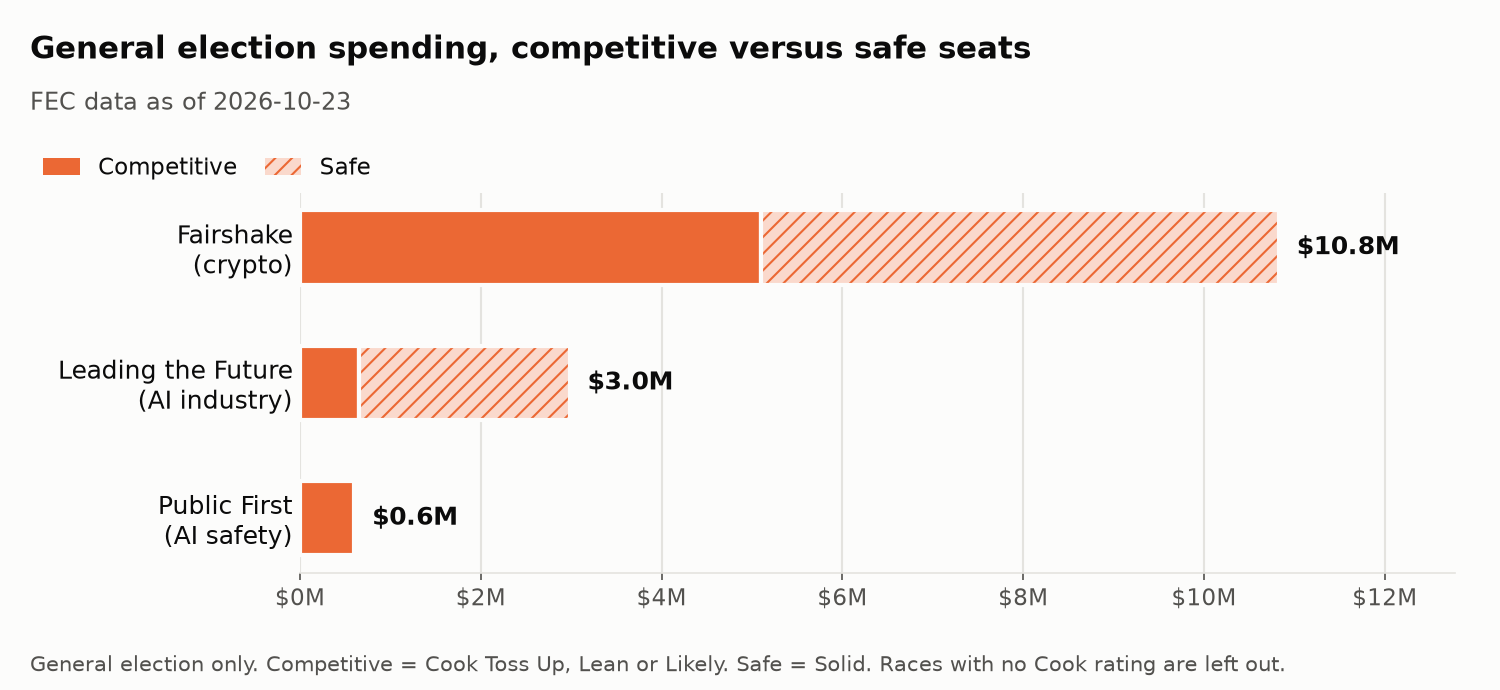
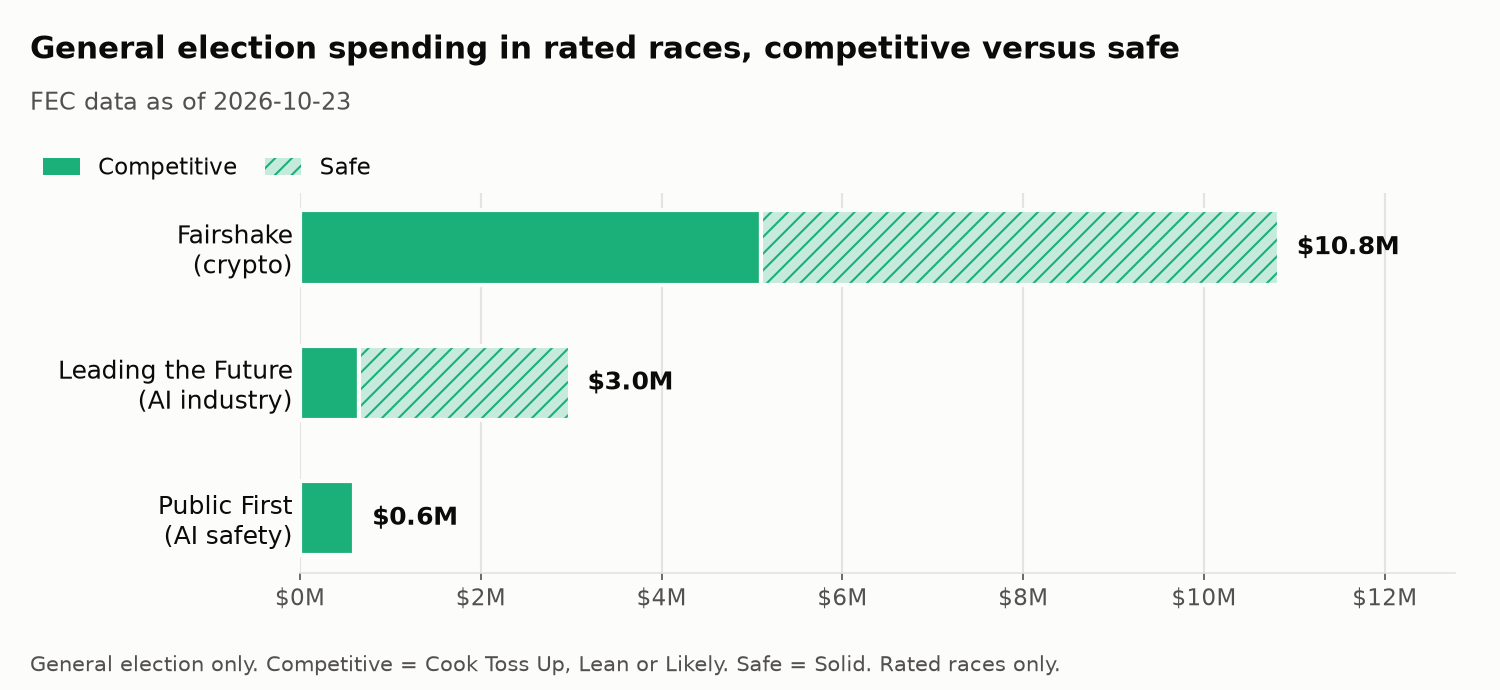
Back the report's party and Allred claims with the numbers file, reword the network description, and separate the seat chart colors

diff --git a/scripts/build_tech_money_report.py b/scripts/build_tech_money_report.py
@@ -58,6 +58,7 @@ RED = "#e34948"
 GRAY = "#8a8986"
 VIOLET = "#6250d6"
 ORANGE = "#eb6834"
+AQUA = "#1baf7a"
 
 # Support is a solid fill and opposition is a hatched, lighter fill of the
 # same hue, so the two read apart in grayscale and for colorblind readers
@@ -73,8 +74,9 @@ PARTY_BUCKETS = [
     ("Other or unknown", GRAY, SOLID),
 ]
 SEAT_TYPES = [
-    ("Competitive", ORANGE, SOLID),
-    ("Safe", ORANGE, HATCHED),
+    # Aqua, not orange, because orange already means "General" in the election chart
+    ("Competitive", AQUA, SOLID),
+    ("Safe", AQUA, HATCHED),
 ]
 ELECTIONS = [
     ("Primary", VIOLET, SOLID),
@@ -160,6 +162,81 @@ def race_detail(conn, pulled_at, race_id):
     return [dict(zip(columns, row)) for row in cursor]
 
 
+def support_by_party_and_stage(conn, pulled_at):
+    """Supporting spending per network, by candidate party and election stage.
+
+    Backs the report's statement about how much support money went to
+    primaries and runoffs, where a network backs one candidate over others
+    in the same party.
+
+    Parameters
+    ----------
+    conn : sqlite3.Connection
+    pulled_at : str
+
+    Returns
+    -------
+    dict
+        {network: {"Democrats" or "Republicans": {"Primary", "Runoff",
+        "General", "Other", "primary_and_runoff_pct"}}}. Rows with no party
+        are left out here and reported by `no_party_rows`.
+    """
+    sql = f"""
+        SELECT network,
+               CASE WHEN party IN ('DEM', 'DFL') THEN 'Democrats' ELSE 'Republicans' END AS party_group,
+               CASE election_type
+                   WHEN 'P' THEN 'Primary'
+                   WHEN 'R' THEN 'Runoff'
+                   WHEN 'G' THEN 'General'
+                   ELSE 'Other'
+               END AS stage,
+               SUM(total) AS total
+        FROM ({NETWORK_SPENDING})
+        WHERE support_oppose = 'S' AND party IN ('DEM', 'DFL', 'REP')
+        GROUP BY network, party_group, stage
+    """
+    result = {}
+    for network, party_group, stage, total in conn.execute(sql, {"pulled_at": pulled_at}):
+        stages = result.setdefault(network, {}).setdefault(
+            party_group, {"Primary": 0.0, "Runoff": 0.0, "General": 0.0, "Other": 0.0})
+        stages[stage] += total
+    for parties in result.values():
+        for stages in parties.values():
+            stage_sum = sum(stages.values())
+            stages["primary_and_runoff_pct"] = (stages["Primary"] + stages["Runoff"]) / stage_sum * 100
+    return result
+
+
+def no_party_rows(conn, pulled_at):
+    """Network spending on candidates whose rows have no Democratic or Republican party code.
+
+    These rows make up the "Other or unknown" bucket. Listing them lets the
+    report name who the money went to instead of leaving the bucket opaque.
+
+    Parameters
+    ----------
+    conn : sqlite3.Connection
+    pulled_at : str
+
+    Returns
+    -------
+    list of dict
+        Keys `network`, `candidate_id`, `candidate_name`, `party`, `race_id`,
+        `support_oppose`, `total`.
+    """
+    sql = f"""
+        SELECT network, candidate_id, candidate_name, party, race_id, support_oppose,
+               SUM(total) AS total
+        FROM ({NETWORK_SPENDING})
+        WHERE party IS NULL OR party NOT IN ('DEM', 'DFL', 'REP')
+        GROUP BY network, candidate_id, candidate_name, party, race_id, support_oppose
+        ORDER BY total DESC
+    """
+    cursor = conn.execute(sql, {"pulled_at": pulled_at})
+    columns = [col[0] for col in cursor.description]
+    return [dict(zip(columns, row)) for row in cursor]
+
+
 def stage_totals(detail_rows):
     """Sum one race's network rows into Primary, General and Other."""
     stages = {"P": "Primary", "G": "General"}
@@ -227,6 +304,8 @@ def collect_numbers(conn, pulled_at):
         for race in races.to_dict(orient="records")
     ]
     numbers["top_race_detail"] = race_detail(conn, pulled_at, races["race_id"].iloc[0])
+    numbers["support_by_party_and_stage"] = support_by_party_and_stage(conn, pulled_at)
+    numbers["no_party_rows"] = no_party_rows(conn, pulled_at)
 
     frames = {"totals": totals, "buckets": buckets, "seats": seats, "elections": elections}
     return numbers, frames
@@ -365,11 +444,11 @@ def plot_party_buckets(frames, pulled_at):
 def plot_competitive_vs_safe(frames, pulled_at):
     """General election spending in competitive versus safe seats."""
     height = 4.6
-    fig, ax = new_figure("General election spending, competitive versus safe seats", pulled_at, height)
+    fig, ax = new_figure("General election spending in rated races, competitive versus safe", pulled_at, height)
     add_legend(fig, SEAT_TYPES, height)
     draw_stacked_bars(ax, frames["seats"], SEAT_TYPES, network_labels(frames["totals"]))
     add_note(fig, "General election only. Competitive = Cook Toss Up, Lean or Likely. Safe = Solid. "
-                  "Races with no Cook rating are left out.")
+                  "Rated races only.")
     save(fig, "competitive_vs_safe.png")
 
 

diff --git a/reports/tech-money.md b/reports/tech-money.md
@@ -4,15 +4,15 @@
 
 ## The question
 
-Three super PAC networks funded by the crypto and AI industries are spending in 2026 House races. This section asks how much each network spent, which candidates it spent for or against, and which races the money went to. It reports what was spent and on whom. It does not try to measure whether the spending changed any result.
+Three super PAC networks tied to crypto and AI policy are spending in 2026 House races. This section asks how much each network spent, which candidates it spent for or against, and which races the money went to. It reports what was spent and on whom. It does not try to measure whether the spending changed any result.
 
-All figures come from `scripts/build_tech_money_report.py`, which reads the October 23 snapshot and writes the charts and [`tech_money_numbers.json`](figures/tech_money_numbers.json). Every number below can be checked against that file.
+All figures come from `scripts/build_tech_money_report.py`, which reads the October 23 snapshot and writes the charts and [`tech_money_numbers.json`](figures/tech_money_numbers.json). Every number below can be checked against that file, except the validation percentages, which come from the validation table in the [README](../README.md#data-caveats).
 
 ## The networks and how they were identified
 
 A network is a group of committees tied to the same organizers. Each committee was added to a network only if it had one of three kinds of public source: FEC evidence (a filing that names the parent group, a shared treasurer, or transfers between the committees), the group's own public statement, or a major news outlet naming the committee. The same standard was applied to all three networks. The committee list and the source for each row are in [`data/manual/pac_industries.csv`](../data/manual/pac_industries.csv).
 
-| Network | Industry | Committees (FEC ID) |
+| Network | Category | Committees (FEC ID) |
 |---|---|---|
 | Fairshake | Crypto | Fairshake (C00835959), Protect Progress (C00848440), Defend American Jobs (C00836221) |
 | Leading the Future | AI industry | Think Big (C00923417), American Mission (C00916692), Leading the Future (C00916114) |
@@ -52,9 +52,9 @@ All three networks spent on candidates in both parties. Most of each network's m
 
 All of Leading the Future's $8.16M in opposition went to one race (see NY-12 below).
 
-The $0.40M in "Other or unknown" went to one candidate, Colin Allred in TX-33. These filings use an FEC candidate ID that is not in this project's candidate table and leave the party field blank, so the rows have no party. They are shown as their own group rather than assigned to a party by hand.
+The $0.40M in "Other or unknown" went to one candidate, Colin Allred in TX-33. These filings use an FEC candidate ID (H6TX33082) that is not in this project's candidate table and leave the party field blank, so the rows have no party. They are shown as their own group rather than assigned to a party by hand.
 
-For each network, most of the money supporting Democrats and most of the money supporting Republicans was spent in primaries and runoffs. Spending in a primary backs one candidate over others in the same party, so "supporting Democrats" does not mean spending against Republicans. The same is true of money supporting Republicans.
+For each network, most of the money supporting Democrats and most of the money supporting Republicans was spent in primaries and runoffs. The share ranges from 54% (Fairshake, supporting Republicans) to 100% (Public First, supporting Democrats). Spending in a primary backs one candidate over others in the same party, so "supporting Democrats" does not mean spending against Republicans. The same is true of money supporting Republicans.
 
 ### Primary versus general election
 
@@ -76,7 +76,7 @@ Most of the money so far went to primaries.
 
 This chart uses general election money only, because Cook ratings describe the November race. A primary in a safe seat can still be closely fought, so counting primary money here would misdescribe what it was for. Competitive means a Cook rating of Toss Up, Lean, or Likely. Safe means Solid.
 
-| Network | Competitive seats | Safe seats |
+| Network | Competitive seats (rated races) | Safe seats (rated races) |
 |---|---|---|
 | Fairshake | $5.10M | $5.73M |
 | Leading the Future | $0.65M | $2.33M |
@@ -113,7 +113,7 @@ The largest race is NY-12's Democratic primary, where two networks were on oppos
 - **The data keeps changing.** Committees file new 24- and 48-hour reports through Election Day. These figures are a snapshot as of October 23, 2026.
 - **Party** comes from the FEC candidate record, or from the filing when the candidate is not in that record. DFL (Minnesota's Democratic party) counts as Democratic.
 - **Cook ratings** for seats that no forecaster rates as competitive are inferred as Solid D or Solid R from the district's PVI. The README explains how.
-- **Scope.** Only the three networks above are counted. Other committees funded by tech companies or tech executives are not included, and neither are direct contributions to campaigns.
+- **Scope.** Only the three networks above are counted. Other committees with ties to the tech industry are not included, and neither are direct contributions to campaigns.
 
 ## What's next
 
